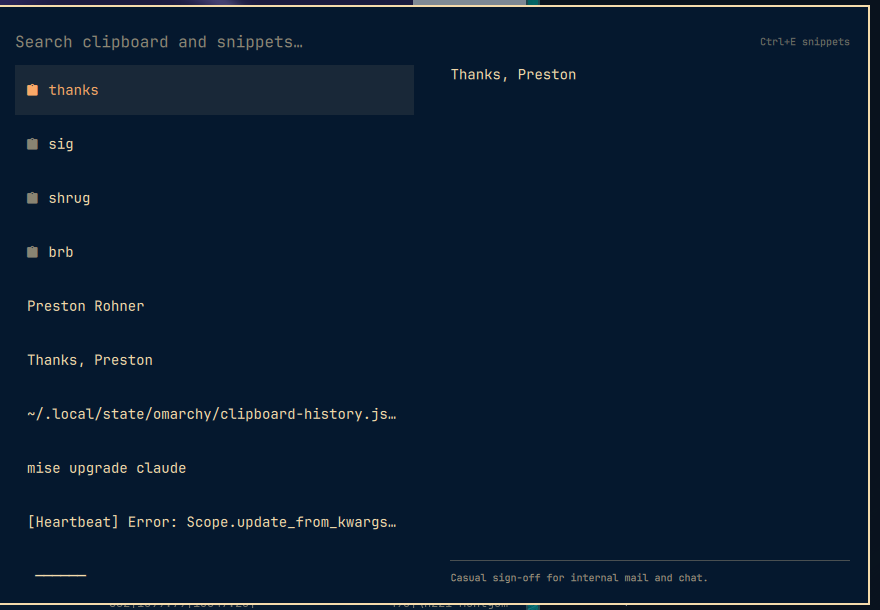
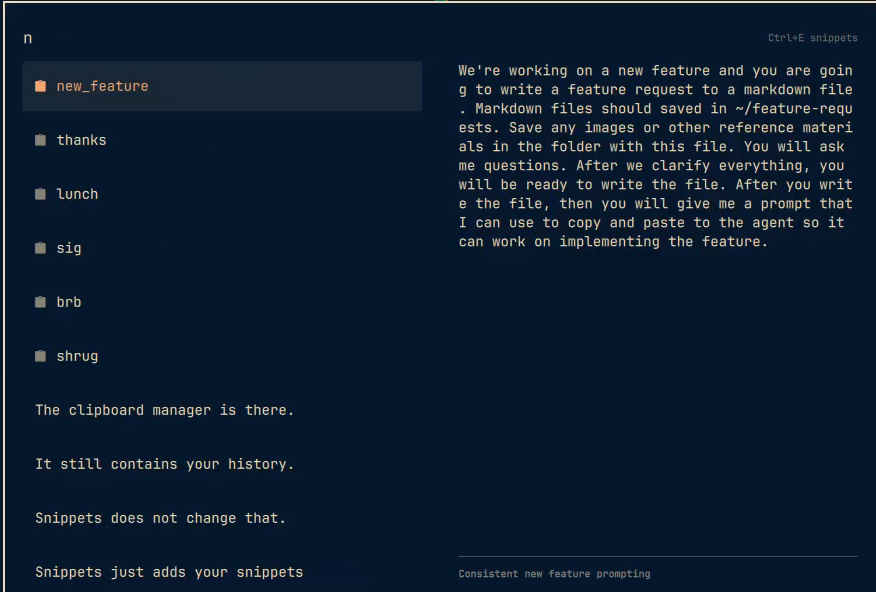
Add a demo GIF and refresh the preview image
Both screenshots showed snippets pinned above an unfiltered clipboard
history, which stopped being possible when snippets moved below history
until the user searches. The preview was the first thing anyone would see
on the marketplace listing, advertising behavior that no longer exists.

Replaces them from a screen recording: docs/demo.gif for the README hero
and a preview.png frame for the listing. The GIF is two segments spliced
across a static stretch -- the picker sat unchanged for three seconds
before typing began, a third of the runtime showing nothing. The cut
points measured 0.8% RMSE apart against 11.6% for a genuinely different
frame, so the splice is invisible.

Generated with a two-pass palette; a single-pass GIF bands badly on a dark
UI. 900x390, 6.5s, 424K.

Claude-Session: https://claude.ai/code/session_01ERJQ48N8R5Afnu7C5jnxdr

Changed region(s): [[0.0, 0.0, 1.0, 1.0]]

diff --git a/README.md b/README.md
@@ -5,7 +5,10 @@ Alfred-style text snippets inside the Omarchy clipboard picker. Press
 
 No accounts. No cloud. Just a JSON file on disk.
 
-![Preview](preview.png)
+![Snippets in the Omarchy clipboard picker](docs/demo.gif)
+
+The picker opens on your clipboard history as always. Type, and matching
+snippets jump to the top — Enter pastes.
 
 Omarchy's clipboard history is capped at 300 entries, so canned text seeded
 into it gets pushed off the end by an afternoon of copying. Snippets live in
